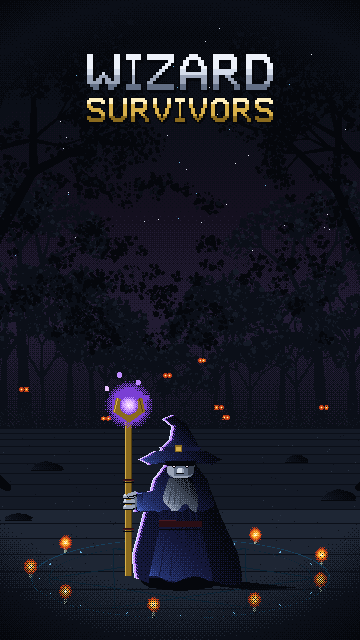
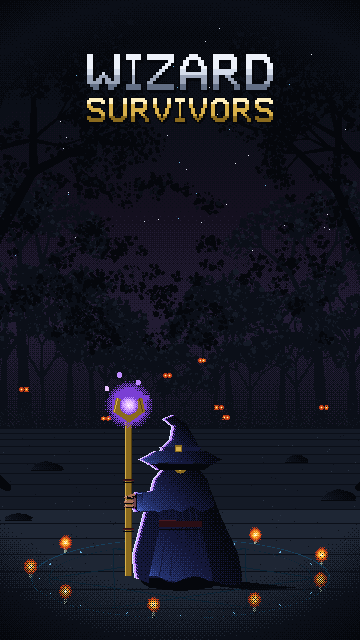
art: drop the wizard's face, and give his hand a skin tone of its own
Revert of the front-facing beard-and-nose version. What is under the hat brim
goes back to a wide band of occlusion, and that void does more work at this size
than a drawn face does - the face read as a portrait of somebody rather than as
the player. Everything else from that pass stays: the filled canopy, the woods,
the hand construction.

Adds a "flesh" row to the Bonelight palette. The row the code calls "skin" is
bone - moon-pale and cold, what the skulls and the moon are made of - so a hand
painted out of it reads as a gauntlet. Every other material in the palette
except gold is cold too, so there was nowhere for living skin to come from. The
new row follows the same five-tone construction as the rest: its shade rotates
toward indigo-magenta and holds its chroma instead of going grey. Recorded in
art-direction.md section 3, which is where the contract says new materials go.

Fingers are smaller with it. Beside the gold shaft the hand is now one of only
two warm notes on the figure.

38 unique colours, zero off-contract.

Changed region(s): [[0.4278, 0.7188, 0.5806, 0.8125], [0.3361, 0.75, 0.3972, 0.8125]]

diff --git a/tools/art/hero.py b/tools/art/hero.py
@@ -124,37 +124,36 @@ def _arm(c, cx, yb, u, sx, r):
     c.poly([(sx + 1.7 * u, gy - 1.7 * u), (sx + 2.1 * u, gy - 1.9 * u),
             (sx + 2.0 * u, gy + 1.8 * u), (sx + 1.6 * u, gy + 1.5 * u)], OCC)
     # back of the hand, behind the shaft
-    s = M["skin"]
-    c.poly([(sx + 0.5 * u, gy - 1.4 * u), (sx + 1.5 * u, gy - 1.6 * u),
-            (sx + 2.0 * u, gy - 1.1 * u), (sx + 2.1 * u, gy + 0.9 * u),
-            (sx + 1.6 * u, gy + 1.5 * u), (sx + 0.7 * u, gy + 1.4 * u),
-            (sx + 0.4 * u, gy + 0.6 * u), (sx + 0.4 * u, gy - 0.8 * u)], s[3])
-    c.line(sx + 0.5 * u, gy - 1.3 * u, sx + 1.5 * u, gy - 1.5 * u, s[2])
+    s = M["flesh"]
+    c.poly([(sx + 0.6 * u, gy - 1.2 * u), (sx + 1.5 * u, gy - 1.4 * u),
+            (sx + 1.9 * u, gy - 0.9 * u), (sx + 2.0 * u, gy + 0.8 * u),
+            (sx + 1.5 * u, gy + 1.3 * u), (sx + 0.8 * u, gy + 1.2 * u),
+            (sx + 0.5 * u, gy + 0.5 * u), (sx + 0.5 * u, gy - 0.7 * u)], s[3])
+    c.line(sx + 0.6 * u, gy - 1.1 * u, sx + 1.5 * u, gy - 1.3 * u, s[2])
 
 
 def _fingers(c, yb, u, sx, w):
     """Only what comes round the near side of the shaft: three fingertips and a thumb.
 
-    Kept deliberately small: the fist should be about as wide as the staff, not wider. Tones
-    are the same skin ramp the nose is lit with, one step down for the back of the hand - the
-    two are the only bare skin on the figure and they have to belong to the same person.
+    Small, and in `flesh` rather than `skin`. `skin` in this palette is bone - moon-pale and
+    cold - and a hand painted out of it reads as a gauntlet or a dead one. `flesh` is the warm
+    row added to the contract for exactly this, and next to the gold shaft it is the only warm
+    note on the figure besides the sash.
     """
-    s = M["skin"]
+    s = M["flesh"]
     gy = _grip_y(yb, u)
-    # Fingers are a tone up from the back of the hand: they are the side of the fist facing
-    # the orb, and at this size that tonal step is the only thing separating them from it.
     for i in range(3):
-        fy = gy - 1.15 * u + i * 1.15 * u
-        _capsule(c, sx + 1.5 * u, fy - 0.15 * u, sx - 0.35 * u, fy,
-                 0.5 * u, 0.42 * u, OCC)
-        _capsule(c, sx + 1.5 * u, fy - 0.30 * u, sx - 0.35 * u, fy - 0.15 * u,
-                 0.42 * u, 0.34 * u, s[2])
-        c.disc(sx - 0.25 * u, fy - 0.45 * u, 0.3 * u, 0.26 * u, s[1])
+        fy = gy - 0.95 * u + i * 0.95 * u
+        _capsule(c, sx + 1.3 * u, fy - 0.12 * u, sx - 0.2 * u, fy,
+                 0.38 * u, 0.30 * u, OCC)
+        _capsule(c, sx + 1.3 * u, fy - 0.26 * u, sx - 0.2 * u, fy - 0.12 * u,
+                 0.30 * u, 0.24 * u, s[2])
+        c.disc(sx - 0.12 * u, fy - 0.36 * u, 0.22 * u, 0.2 * u, s[1])   # knuckle, orb-lit
     # thumb, coming over the shaft from behind, shorter than the fingers
-    _capsule(c, sx + 1.8 * u, gy - 1.85 * u, sx + 0.5 * u, gy - 1.45 * u,
-             0.5 * u, 0.4 * u, OCC)
-    _capsule(c, sx + 1.8 * u, gy - 2.0 * u, sx + 0.5 * u, gy - 1.6 * u,
-             0.42 * u, 0.32 * u, s[2])
+    _capsule(c, sx + 1.6 * u, gy - 1.55 * u, sx + 0.5 * u, gy - 1.25 * u,
+             0.38 * u, 0.28 * u, OCC)
+    _capsule(c, sx + 1.6 * u, gy - 1.68 * u, sx + 0.5 * u, gy - 1.38 * u,
+             0.30 * u, 0.22 * u, s[2])
 
 
 def wizard_hero(c, cx, yb, h=150, robe="wool", staff_ramp=None, cast=(1.5, 0.5)):
@@ -216,61 +215,22 @@ def wizard_hero(c, cx, yb, h=150, robe="wool", staff_ramp=None, cast=(1.5, 0.5))
     c.disc(cx, yb - 23.2 * u, 1.1 * u, 0.8 * u, M["gold"][2])
     c.disc(cx - 0.2 * u, yb - 23.4 * u, 0.5 * u, 0.4 * u, M["gold"][1])
 
-    # The arm goes down here, before the face and the beard, so the beard hangs over the
-    # inside end of it and the sleeve reads as protruding out from behind the beard rather
-    # than as crossing in front of the chest.
-    _arm(c, cx, yb, u, sx, r)
-
-    # --- face and beard ------------------------------------------------------------
-    # He was drawn from behind with a dark void under the brim, and read front-on anyway: the
-    # pale scalloped mantle beneath the hat was doing a convincing impression of a beard. So
-    # he is front-facing now and the beard is real. The face stays deep in the brim shadow -
-    # only the nose and the two eye glints catch anything - which keeps him ominous rather
-    # than friendly at a size where a whole rendered face would read as a portrait.
-    s = M["skin"]
-    # the face plane, then the brow band the brim throws across it
-    c.poly([(cx - 2.9 * u, yb - 25.6 * u), (cx + 2.9 * u, yb - 25.6 * u),
-            (cx + 2.7 * u, yb - 22.6 * u), (cx + 2.0 * u, yb - 21.6 * u),
-            (cx - 2.0 * u, yb - 21.6 * u), (cx - 2.7 * u, yb - 22.6 * u)], s[3])
-    c.poly([(cx - 2.9 * u, yb - 25.6 * u), (cx - 1.5 * u, yb - 25.6 * u),
-            (cx - 1.7 * u, yb - 21.8 * u), (cx - 2.7 * u, yb - 22.6 * u)], s[2])
-    c.poly([(cx + 1.6 * u, yb - 25.6 * u), (cx + 2.9 * u, yb - 25.6 * u),
-            (cx + 2.7 * u, yb - 22.6 * u), (cx + 1.8 * u, yb - 22.0 * u)], s[4])
-    c.poly([(cx - 2.9 * u, yb - 25.4 * u), (cx + 2.9 * u, yb - 25.4 * u),
-            (cx + 2.8 * u, yb - 24.2 * u), (cx - 2.8 * u, yb - 24.2 * u)], OCC)
-    # eyes at the lower edge of that band, so the brim shadow reads as brow
-    for k in (-1, 1):
-        c.disc(cx + k * 1.35 * u, yb - 24.1 * u, 0.55 * u, 0.45 * u, OCC)
-        c.disc(cx + k * 1.35 * u, yb - 24.1 * u, 0.3 * u, 0.28 * u, ramp[0])
-    # the nose: the one plane of him the light actually finds, and the tone the hand matches
-    c.poly([(cx - 0.35 * u, yb - 23.6 * u), (cx + 0.35 * u, yb - 23.6 * u),
-            (cx + 0.65 * u, yb - 22.3 * u), (cx - 0.7 * u, yb - 22.3 * u)], s[2])
-    c.poly([(cx - 0.35 * u, yb - 23.6 * u), (cx + 0.0 * u, yb - 23.6 * u),
-            (cx + 0.05 * u, yb - 22.4 * u), (cx - 0.7 * u, yb - 22.3 * u)], s[1])
-    c.hline(cx - 0.7 * u, cx + 0.65 * u, yb - 22.2 * u, OCC)
-    # moustache: small. Built wide and bright it was a white bib under the hat and the whole
-    # face vanished behind it.
-    c.poly([(cx - 1.7 * u, yb - 21.9 * u), (cx + 1.7 * u, yb - 21.9 * u),
-            (cx + 1.2 * u, yb - 21.1 * u), (cx - 1.2 * u, yb - 21.1 * u)], s[2])
-    c.hline(cx - 1.2 * u, cx + 1.2 * u, yb - 21.0 * u, s[4])
-    # beard, hanging over the mantle and over the inside end of the sleeve
-    beard = ([(cx - 2.3 * u, yb - 21.4 * u), (cx + 2.3 * u, yb - 21.4 * u),
-              (cx + 3.1 * u, yb - 19.0 * u), (cx + 3.6 * u, yb - 17.0 * u)]
-             + _wave(cx + 3.3 * u, cx - 3.3 * u, yb - 15.2 * u, 1.0 * u, 8, 1.4)
-             + [(cx - 3.6 * u, yb - 17.0 * u), (cx - 3.1 * u, yb - 19.0 * u)])
-    c.poly_shade(beard, [s[2], s[3], s[4], OCC], ang=-0.7854, bias=0.0, gamma=0.72)
-    for bx in (-2.4, -1.2, 0.2, 1.4, 2.5):                # strands
-        c.line(cx + bx * u * 0.6, yb - 21.0 * u, cx + bx * u, yb - 15.8 * u, s[4])
-
-    # --- the hat, over the top of all of it ------------------------------------------
+    # --- head, then the hat over it ----------------------------------------------
+    # No face. A front-facing version with a beard, a lit nose and two eye glints was built
+    # and reverted: what is under the brim is a void, and the void is doing more work than a
+    # rendered face can at this size. The pale scalloped mantle below it is enough to imply
+    # a head without drawing one.
+    c.poly([(cx - 2.6 * u, yb - 27 * u), (cx + 2.6 * u, yb - 27 * u),
+            (cx + 2.3 * u, yb - 23.6 * u), (cx - 2.3 * u, yb - 23.6 * u)], r[4])
     brim = [(cx - 8.6 * u, yb - 25.4 * u), (cx - 5.2 * u, yb - 27.2 * u),
             (cx, yb - 27.7 * u), (cx + 5.2 * u, yb - 27.2 * u), (cx + 8.6 * u, yb - 25.4 * u),
             (cx + 6.6 * u, yb - 24.3 * u), (cx + 3.0 * u, yb - 24.8 * u),
             (cx - 3.0 * u, yb - 24.8 * u), (cx - 6.6 * u, yb - 24.3 * u)]
     c.poly_shade(brim, [r[2], r[3], r[4], OCC], ang=-0.7854, bias=0.0, gamma=0.60)
-    # the brim casts. Without this the hat sits on the shoulders instead of over a head.
-    c.poly([(cx - 3.0 * u, yb - 25.0 * u), (cx + 3.0 * u, yb - 25.0 * u),
-            (cx + 2.7 * u, yb - 24.0 * u), (cx - 2.7 * u, yb - 24.0 * u)], OCC)
+    # The brim casts, wide and deep. Without this the hat sits on the shoulders instead of
+    # over a head, and this band is the void that stands in for the face.
+    c.poly([(cx - 6.6 * u, yb - 24.5 * u), (cx + 6.6 * u, yb - 24.5 * u),
+            (cx + 5.0 * u, yb - 23.2 * u), (cx - 5.0 * u, yb - 23.2 * u)], OCC)
     cone = [(cx - 4.2 * u, yb - 27.3 * u), (cx + 4.2 * u, yb - 27.3 * u),
             (cx + 2.4 * u, yb - 30.6 * u), (cx + 1.0 * u, yb - 33.0 * u),
             (cx - 1.8 * u, yb - 34.8 * u), (cx - 3.6 * u, yb - 34.0 * u),
@@ -280,6 +240,9 @@ def wizard_hero(c, cx, yb, h=150, robe="wool", staff_ramp=None, cast=(1.5, 0.5))
             (cx + 3.7 * u, yb - 27.1 * u), (cx - 3.7 * u, yb - 27.1 * u)], r[4])
     c.rect(cx - 1.0 * u, yb - 28.2 * u, cx + 0.3 * u, yb - 26.9 * u, M["gold"][2])
     c.rect(cx - 0.8 * u, yb - 27.9 * u, cx - 0.0 * u, yb - 27.3 * u, M["gold"][1])
+
+    # the arm, before the edge passes so the silhouette they trace includes it
+    _arm(c, cx, yb, u, sx, r)
 
     # Edge light, on the figure only. Running these after the staff rimmed the staff - it is
     # the leftmost lit thing in most rows - and the result read as a glowing rod.

diff --git a/tools/art/bonelight.py b/tools/art/bonelight.py
@@ -18,7 +18,12 @@ MATERIALS = {
     "stone":  ["#3A4658", "#2A3444", "#1E2634", "#141A26", "#0B0F18"],
     "lichen": ["#5A8A94", "#3A6470", "#2A4E58", "#24404A", "#16282E"],
     "wool":   ["#9AB0F0", "#6A86E0", "#3A52A8", "#23306A", "#14183A"],
+    # "skin" is bone and undead pallor despite the name - it is what skulls, grave-linen
+    # figures and the moon are made of. Living skin needed its own row: everything in this
+    # palette but gold is cold, and a hand borrowed from the bone ramp reads as a gauntlet or
+    # a corpse rather than as the hand of the person holding the staff.
     "skin":   ["#EEF2FA", "#D4DCEA", "#9AA4B8", "#626E84", "#38404F"],
+    "flesh":  ["#F2DCC4", "#D8A484", "#A87058", "#6E4450", "#3C2436"],
     "gold":   ["#FFF0C0", "#D8B04A", "#8A6A1E", "#543F10", "#2E2208"],
     "steel":  ["#DCE8F4", "#B8C8DC", "#6A7E98", "#3A4A62", "#202838"],
     "red":    ["#8A3038", "#6A2028", "#4A1820", "#2A0E14", "#16070A"],

diff --git a/.ai/title-screen.md b/.ai/title-screen.md
@@ -81,7 +81,8 @@ order bugs. Back to front:
 | Canopy density and raggedness | `density` arg, and `_clump` in `splashkit.py` |
 | The hole in the canopy | `CLEAR = (cx, cy, rx, ry)` in `vigil()`; its lobing lives in `canopy()` |
 | Overhead boughs | the bough list in `vigil()` — origin, angle, length and width per limb |
-| Face, beard, nose | the face block in `hero.py`, between the arm and the hat |
+| How dark it is under the brim | the brim cast polygon in `hero.py` — that band *is* the face |
+| Hand and finger size and tone | `_fingers` / `_arm` in `hero.py`; tones from the `flesh` ramp |
 | Branch forking, lean, hanging strands | `tree()` in `splashkit.py` |
 | Ward circle size / candle count | `cxp, cyp` and the radii in `vigil()` |
 | Figure size | `hero.wizard_hero(c, cxp, cyp, h=150)` |
@@ -108,19 +109,16 @@ carry the read, and all four were arrived at by getting them wrong first:
    the ramp is most of what made the first version look like a mascot.
 4. **Asymmetry**: a cloak swept off-axis, a mantle layered over the robe.
 
-He is **front-facing with a beard**, and that was not the original plan. He was built from
-behind, with a dark void where a face would be — and read as facing forward anyway, because the
-pale scalloped mantle under the hat brim was doing a convincing impression of a beard. Rather
-than fight that read, the beard is real now. The face stays deep in the brim shadow: only the
-nose and two pinpoint eye glints catch anything, which keeps him ominous at a size where a fully
-rendered face would read as a portrait.
+**He has no face, on purpose.** What is under the brim is a wide band of `occ`, and that void
+does more work than a drawn face can at this size. A front-facing version with a beard, a lit
+nose and two eye glints was built and reverted: it read as a portrait of somebody rather than as
+the player. The pale scalloped mantle below the brim is enough to imply a head. If you try a
+face again, that is the failure to expect.
 
-**The nose and the hand are the only bare skin on the figure and share the `skin` ramp** — the
-hand at `base` with `shade` for the back of it, the nose at `base` with a `lit` edge. Change one
-and change the other.
-
-The arm is drawn after the mantle but **before** the face and the beard, so the beard hangs over
-the point where the sleeve leaves the body and the sleeve reads as protruding from behind it.
+**The hand is the only bare skin, and it uses `flesh`, not `skin`.** The row called `skin` in
+this palette is bone — cold and moon-pale, what the skulls and the moon are made of — and a hand
+painted from it reads as a gauntlet. `flesh` was added to the contract for this. Beside the gold
+shaft it is one of only two warm notes on the figure, the other being the sash.
 
 The hand is the fiddliest part. The arm, cuff and back of the hand are drawn **before** the staff
 and only three fingertips and a thumb come round the near side after it — he grips the shaft

diff --git a/.ai/art-direction.md b/.ai/art-direction.md
@@ -139,7 +139,8 @@ Materials — `hi / lit / base / shade / deep`:
 | Floor stone | `#3A4658` | `#2A3444` | `#1E2634` | `#141A26` | `#0B0F18` |
 | Lichen / moss | `#5A8A94` | `#3A6470` | `#2A4E58` | `#24404A` | `#16282E` |
 | Indigo wool (player) | `#9AB0F0` | `#6A86E0` | `#3A52A8` | `#23306A` | `#14183A` |
-| Skin (moon-pale) | `#EEF2FA` | `#D4DCEA` | `#9AA4B8` | `#626E84` | `#38404F` |
+| Bone / pallor ("skin") | `#EEF2FA` | `#D4DCEA` | `#9AA4B8` | `#626E84` | `#38404F` |
+| Living flesh | `#F2DCC4` | `#D8A484` | `#A87058` | `#6E4450` | `#3C2436` |
 | Gold (trim, lantern) | `#FFF0C0` | `#D8B04A` | `#8A6A1E` | `#543F10` | `#2E2208` |
 | Steel (armour) | `#DCE8F4` | `#B8C8DC` | `#6A7E98` | `#3A4A62` | `#202838` |
 | Cloth red (tabard) | `#8A3038` | `#6A2028` | `#4A1820` | `#2A0E14` | `#16070A` |
@@ -147,12 +148,20 @@ Materials — `hi / lit / base / shade / deep`:
 | Robe violet (caster) | `#6E6296` | `#4E4470` | `#342C4C` | `#221C33` | `#14101F` |
 | Arcane cyan | `#DCF4FF` | `#6AB8E8` | `#2A6A9A` | `#17415E` | `#0B2436` |
 
-That is **fifty material colours plus four lights**, against the 935 the current art carries. It
-is a budget, not a suggestion: a new material means a new five-tone row added to this table,
-reviewed, and then used — never a colour picked per sprite.
+That is **fifty-five material colours plus four lights**, against the 935 the current art
+carries. It is a budget, not a suggestion: a new material means a new five-tone row added to this
+table, reviewed, and then used — never a colour picked per sprite.
 
-Note the deliberate asymmetry: gold, steel `hi` and skin `hi` are the only high-value tones in
+Note the deliberate asymmetry: gold, steel `hi` and bone `hi` are the only high-value tones in
 the game. On a floor whose brightest stone is `#3A4658`, those read as light sources. Spend them.
+
+**On the two skin rows.** The row the code calls `skin` is *bone*: it is what skulls, the moon
+and grave-linen figures are made of, and it is deliberately cold and moon-pale. It is not a
+person's skin. **Living flesh** was added as its own row (2026-09-04, for the title-screen
+figure's hand) because everything in this palette except gold is cold, and a hand borrowed from
+the bone ramp reads as a gauntlet or a corpse. It follows the five-tone rule like everything
+else: its `shade` rotates toward indigo-magenta and *holds* its chroma rather than going grey.
+Use `flesh` for anything alive and `skin` for anything that is not.
 
 ### Elements are emissive, not pigment
 
